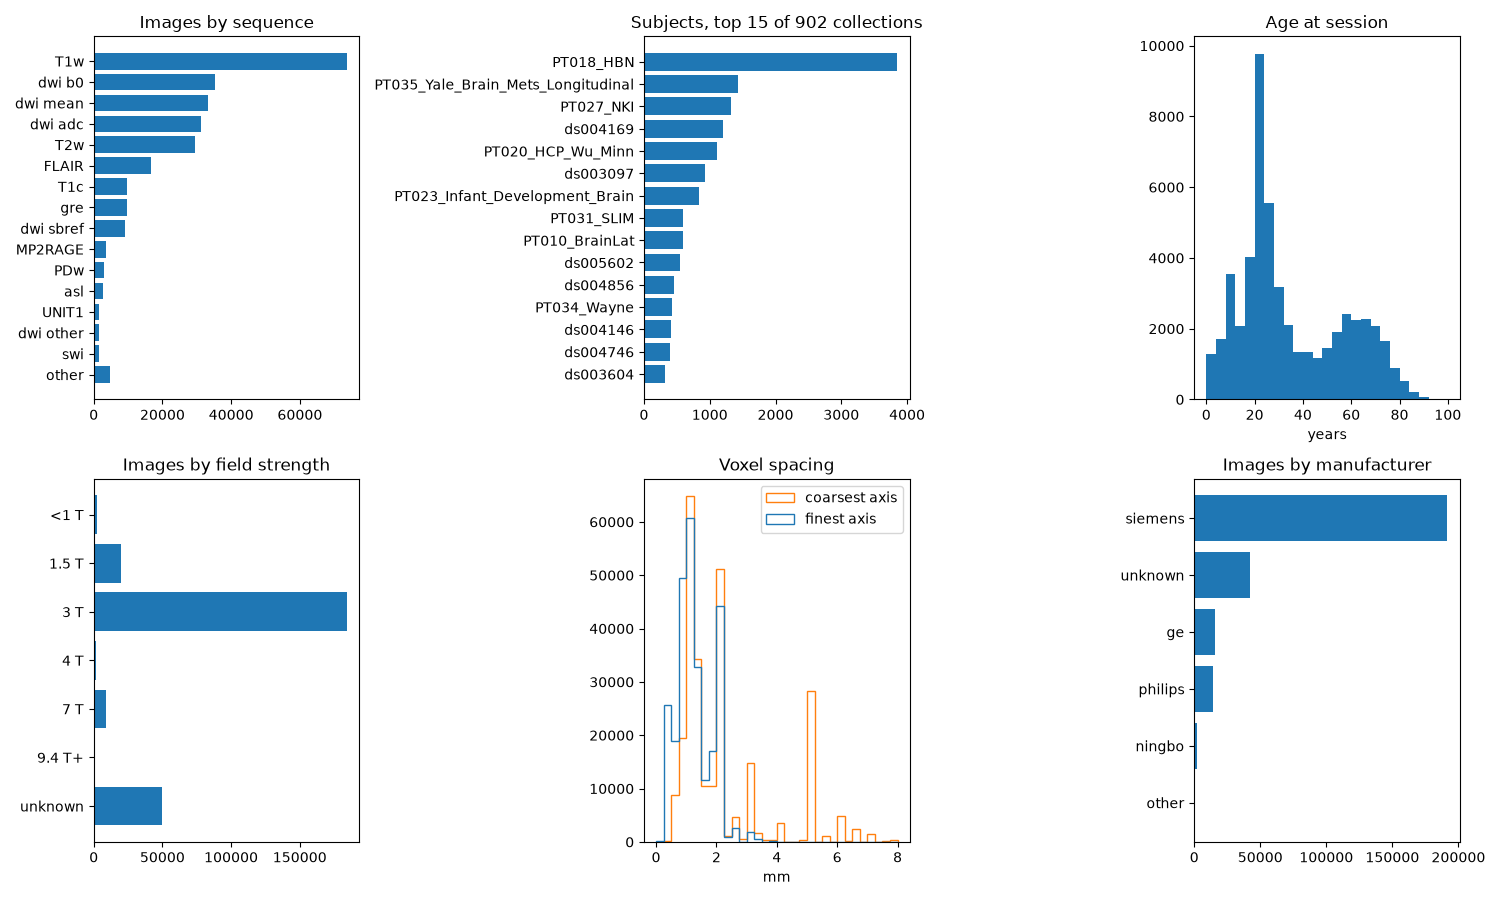
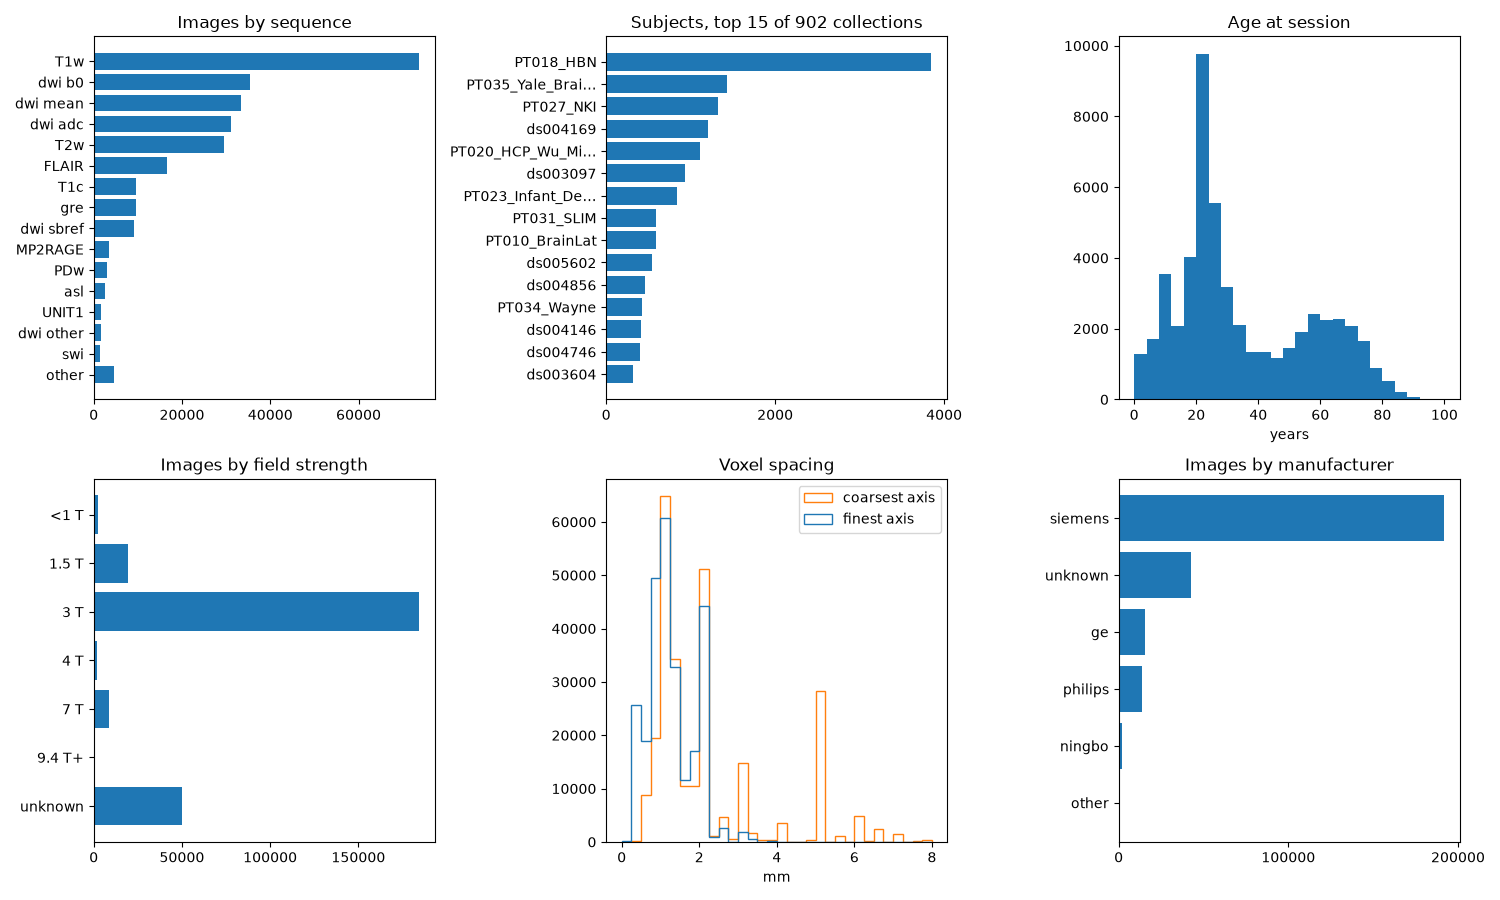
Two kinds of eval datasets, hosted and manual; shorter collection names in the FOMO300K plot

diff --git a/scripts/fomo300k/plot_summary.py b/scripts/fomo300k/plot_summary.py
@@ -16,6 +16,7 @@ TOP = 15
 def barh(ax: plt.Axes, counts: pd.Series, title: str) -> None:
     ax.barh(counts.index[::-1].astype(str), counts.values[::-1])
     ax.set_title(title)
+    ax.locator_params(axis="x", nbins=4)
 
 
 def main() -> None:
@@ -39,6 +40,7 @@ def main() -> None:
     barh(axes[0, 0], sequences, "Images by sequence")
 
     collections = subjects["collection"].str.removeprefix("PT030_OpenNeuro/").value_counts()
+    collections.index = [name if len(name) <= 16 else name[:15] + "…" for name in collections.index]
     barh(axes[0, 1], collections[:TOP], f"Subjects, top {TOP} of {len(collections)} collections")
 
     axes[0, 2].hist(sessions["age"].dropna(), bins=np.arange(0, 101, 4))

diff --git a/README_hf.md b/README_hf.md
@@ -43,11 +43,10 @@ configs:
 
 Public structural brain MRI datasets for building and evaluating sMRI foundation models: evaluation datasets with classification, regression and segmentation targets, and a large pretraining set. Code and benchmark: <https://github.com/MedARC-AI/brainmarks-smri>.
 
-We sort the datasets into three tiers by how they can be shared:
+The datasets come in two kinds:
 
-- **Hosted**: open datasets whose licenses allow redistribution. The full data is here.
-- **Build-it-yourself**: open datasets that may not be redistributed. Each user downloads them from the source and builds them with our scripts. Only the README and the tables without `samples.tsv` are here.
-- **Manual**: datasets that need an access application. You apply to the source, then build them as above.
+- **Hosted**: the full data is here.
+- **Manual**: you download the data from its source and build the dataset with our scripts. Only the README and the tables (without `samples.tsv`) are here. Their licenses don't allow redistribution.
 
 ## Evaluation datasets
 
@@ -67,7 +66,7 @@ Each evaluation dataset has harmonized metadata tables, fixed train/val/test spl
 | [UCSF-PDGM](https://www.cancerimagingarchive.net/collection/ucsf-pdgm/) | 495 | T1w, T1c, T2w, FLAIR, DWI, ADC, tumor mask | IDH, MGMT, 1p/19q, grade, survival, tumor segmentation | CC BY 4.0 | 15.9 GB |
 | [UPENN-GBM](https://www.cancerimagingarchive.net/collection/upenn-gbm/) | 630 | T1w, T1c, T2w, FLAIR, tumor mask | survival, IDH1, MGMT, tumor segmentation | CC BY 4.0 | 25.3 GB |
 
-### Build-it-yourself and manual
+### Manual
 
 | Dataset | Participants | Images | Targets | Access | Size |
 |---|---|---|---|---|---|
@@ -75,7 +74,7 @@ Each evaluation dataset has harmonized metadata tables, fixed train/val/test spl
 | [OASIS-2](https://sites.wustl.edu/oasisbrains/home/oasis-2/) | 150 | T1w, longitudinal | dementia, conversion | accept the OASIS terms | 20 GB |
 | [FOMO26 Task 4](https://fomo26.github.io/) | 40 | T2w, nerve and vessel mask | trigeminal nerve and vessel segmentation | download link from the organizers | 2.2 GB |
 | [FOMO26 Task 5](https://fomo26.github.io/) | 48 | T1w | polymicrogyria | download link from the organizers | 1.1 GB |
-| [ATLAS R2.1](https://fcon_1000.projects.nitrc.org/indi/retro/atlas.html) (manual) | 955 | T1w, lesion mask | stroke lesion segmentation | apply for a decryption key | 2.9 GB |
+| [ATLAS R2.1](https://fcon_1000.projects.nitrc.org/indi/retro/atlas.html) | 955 | T1w, lesion mask | stroke lesion segmentation | apply for a decryption key | 2.9 GB |
 
 Each dataset folder's `README.md` has its source, version, license, citation, and split details.
 
@@ -100,7 +99,7 @@ Each dataset folder's `README.md` has its source, version, license, citation, an
 - Derivatives: a brain mask on the image grid (`<image>_mask.nii.gz`) and a 4×4 nibabel-style affine matrix from the image to MNI152NLin6Asym (`<image>_mni.txt`). `derivatives.tsv` lists the images that have them.
 - `<dataset>-NNN.zip` shards hold whole participants: their images, JSON sidecars, brain masks and MNI affines, about 1 GB per shard. `<dataset>-meta.zip` holds the rest of the release: participant tables, phenotypes and docs.
 - Files in the shards keep their original paths under `source/` and `derivatives/`. Unzipping all shards in `<dataset>/` restores the full release, which you can check with `sha256sum -c tables/source.sha256 tables/derivatives.sha256`.
-- For the build-it-yourself and manual datasets, the checksums let you check your own build against ours.
+- For the manual datasets, the checksums let you check your own build against ours.
 - Splits are by participant. Official splits are kept where they exist; otherwise the split is 60/20/20, stratified, with a fixed seed. The smallest datasets have only a train split, for k-fold cross-validation.
 - `complete` marks participants with all core images and the primary targets.
 - `rank` orders participants within each split so that the lowest-ranked N form a balanced subset; subsets are nested as N grows.

diff --git a/scripts/oasis1/README.md b/scripts/oasis1/README.md
@@ -6,7 +6,7 @@ Open Access Series of Imaging Studies, cross-sectional: 416 adults aged 18-96 (W
 - **Source:** 12 raw image discs from <https://download.nrg.wustl.edu/data/> and the clinical spreadsheets from the homepage, downloaded with `curl`. No login is needed, but users must accept the OASIS data use terms (<https://sites.wustl.edu/oasisbrains/home/access/>). The images are distributed in Analyze 7.5 format (`.hdr`/`.img`), which has no affine. We store each as `.nii.gz` with the same voxels, and set the affine from the header's orientation code as FreeSurfer reads it (sagittal: ASL; transverse: LAS; the two `*.4dfp` images: PIR).
 - **Version:** unversioned; discs dated 2007-06, spreadsheets 2024. Pinned by sha256.
 - **DOI:** [10.1162/jocn.2007.19.9.1498](https://doi.org/10.1162/jocn.2007.19.9.1498) (paper)
-- **License:** OASIS data use terms: non-commercial research only, no redistribution without written permission. So our mirror has only this README and the tables without `samples.tsv`. Each user downloads the data and builds the rest.
+- **License:** OASIS data use terms: non-commercial research only, no redistribution without written permission. Manual dataset: you download and build it yourself, and our mirror has only this README and the tables.
 - **Citation:** Marcus, D. S., Wang, T. H., Parker, J., Csernansky, J. G., Morris, J. C., & Buckner, R. L. (2007). Open Access Series of Imaging Studies (OASIS): Cross-sectional MRI data in young, middle aged, nondemented, and demented older adults. *Journal of Cognitive Neuroscience*, 19(9), 1498-1507.
 - **Code:** [`scripts/oasis1/`](https://github.com/MedARC-AI/brainmarks-smri/tree/main/scripts/oasis1) downloads `source/` and builds `tables/`, `derivatives/` and `shards/`.
 

diff --git a/README.md b/README.md
@@ -13,10 +13,10 @@ Each baseline model is an optional extra: `brainiac`, `braindino`, `neurojepa`, 
 
 ## Data
 
-The benchmark uses public datasets in three tiers, by how they can be shared. We add standard metadata tables and fixed train/val/test splits to each one. Every image also has a brain mask and an affine to MNI space. The dataset card, [`README_hf.md`](README_hf.md), lists the datasets and their licenses.
+The benchmark uses public datasets. We add standard metadata tables and fixed train/val/test splits to each one. Every image also has a brain mask and an affine to MNI space. The dataset card, [`README_hf.md`](README_hf.md), lists the datasets and their licenses.
 
 - **Hosted**: nine datasets are hosted at [medarc/brainmarks-smri](https://huggingface.co/datasets/medarc/brainmarks-smri). The repo is gated, so accept its terms and log in with `hf auth login` first. Then set `DATA_ROOT=hf://datasets/medarc/brainmarks-smri`, and each dataset is downloaded to a local cache when a run first needs it. You can also download the repo yourself and set `DATA_ROOT` to its folder.
-- **Build-it-yourself** (OASIS-1, OASIS-2, FOMO26 Tasks 4 and 5) and **manual** (ATLAS, which needs an access application): these may not be redistributed, so you build them in your local `DATA_ROOT` (default `datasets/`). Each one's README explains how to get access.
+- **Manual**: you build ATLAS, OASIS-1, OASIS-2 and FOMO26 Tasks 4 and 5 yourself in your local `DATA_ROOT` (default `datasets/`), because their licenses don't allow redistribution. Each one's README explains how to get access.
 
 ```sh
 bash scripts/oasis1/download.sh

diff --git a/scripts/oasis2/README.md b/scripts/oasis2/README.md
@@ -6,7 +6,7 @@ Open Access Series of Imaging Studies, longitudinal: 150 adults aged 60-96 (Wash
 - **Source:** two raw image archives from <https://download.nrg.wustl.edu/data/> and the demographics spreadsheet from the homepage, downloaded with `curl`. No login is needed, but users must accept the OASIS data use terms (<https://sites.wustl.edu/oasisbrains/home/access/>). The images are distributed as NIfTI pairs (`.nifti.hdr`/`.img`); we store each as one `.nii.gz` with the same header and voxels.
 - **Version:** unversioned; archives dated 2009-03, spreadsheet 2024. Pinned by sha256.
 - **DOI:** [10.1162/jocn.2009.21407](https://doi.org/10.1162/jocn.2009.21407) (paper)
-- **License:** OASIS data use terms: non-commercial research only, no redistribution without written permission. So our mirror has only this README and the tables without `samples.tsv`. Each user downloads the data and builds the rest.
+- **License:** OASIS data use terms: non-commercial research only, no redistribution without written permission. Manual dataset: you download and build it yourself, and our mirror has only this README and the tables.
 - **Citation:** Marcus, D. S., Fotenos, A. F., Csernansky, J. G., Morris, J. C., & Buckner, R. L. (2010). Open Access Series of Imaging Studies: Longitudinal MRI data in nondemented and demented older adults. *Journal of Cognitive Neuroscience*, 22(12), 2677-2684.
 - **Code:** [`scripts/oasis2/`](https://github.com/MedARC-AI/brainmarks-smri/tree/main/scripts/oasis2) downloads `source/` and builds `tables/`, `derivatives/` and `shards/`.
 

diff --git a/scripts/fomo26_task5/README.md b/scripts/fomo26_task5/README.md
@@ -6,7 +6,7 @@ A few-shot classification task from the FOMO26 challenge: T1w MRIs of 24 childre
 - **Source:** the organizers' ERDA share, whose link was given to challenge participants (ask the organizers, fomo26@di.ku.dk). We download it with `curl`. The organizers distribute the PPMR dataset ([uOttawa repository](https://ruor.uottawa.ca/items/298d789f-e390-43c7-a657-a823701b18b6): coronal JPEG slices) and their script `Task_5_extract.py`, which stacks the slices into NIfTI volumes and picks one control per control folder. We run the script, keep its output and drop the zip.
 - **Version:** unversioned; files dated 2026-05-01, pinned by sha256.
 - **DOI:** none for the challenge data. PPMR: [10.20381/ruor-28525](https://doi.org/10.20381/ruor-28525).
-- **License:** PPMR is CC BY-NC-ND 4.0. Not redistributable, so our mirror has only this README and the tables without `samples.tsv`. Each user downloads the data and builds the rest.
+- **License:** PPMR is CC BY-NC-ND 4.0. Manual dataset: you download and build it yourself, and our mirror has only this README and the tables.
 - **Citation:**
   - Munk, A., Cerri, S., Nersesjan, V., et al. (2026). Towards brain MRI foundation models for the clinic: Findings from the FOMO25 challenge. arXiv:2604.11679.
   - Zhang, L., Abdeen, N., & Lang, J. (2022). A novel center-based deep contrastive metric learning method for the detection of polymicrogyria in pediatric brain MRI. arXiv:2211.12565.

diff --git a/scripts/fomo26_task4/README.md b/scripts/fomo26_task4/README.md
@@ -6,7 +6,7 @@ A few-shot segmentation task from the FOMO26 challenge: T2w MRIs of 40 patients 
 - **Source:** the organizers' ERDA share, whose link was given to challenge participants (ask the organizers, fomo26@di.ku.dk). We download `Task_4.zip` from it with `curl`. The images are from OpenNeuro [ds005713](https://openneuro.org/datasets/ds005713) (CC0), reoriented to RAS by the organizers. The masks are the organizers'.
 - **Version:** unversioned; `Task_4.zip` dated 2026-04-12, pinned by sha256.
 - **DOI:** none for the challenge data. Images: [10.18112/openneuro.ds005713](https://doi.org/10.18112/openneuro.ds005713.v2.0.3).
-- **License:** the images are CC0; the masks have no stated license. Not redistributable, so our mirror has only this README and the tables without `samples.tsv`. Each user downloads the data and builds the rest.
+- **License:** the images are CC0; the masks have no stated license. Manual dataset: you download and build it yourself, and our mirror has only this README and the tables.
 - **Citation:**
   - Munk, A., Cerri, S., Nersesjan, V., et al. (2026). Towards brain MRI foundation models for the clinic: Findings from the FOMO25 challenge. arXiv:2604.11679.
   - Filimonova, E., Pashkov, A., Tiutiunnik, A., et al. (2025). A large-scale dataset of pre- and postsurgical MRI data from patients with chronic trigeminal neuralgia. *Scientific Data*. <https://doi.org/10.1038/s41597-025-06311-y>

diff --git a/scripts/atlas/README.md b/scripts/atlas/README.md
@@ -6,7 +6,7 @@ Anatomical Tracings of Lesions After Stroke: T1w MRIs of chronic stroke patients
 - **Source:** INDI S3 (`s3://fcp-indi/data/Projects/INDI/ATLAS/R2.1/`), downloaded with `curl`. The archive is encrypted with `openssl`. To get the key, accept the terms of use and fill in the Google form on the homepage. Each user must apply for their own key.
 - **Version:** R2.1, minimally processed (`atlas21_training_raw.tar.gz`, 2026-04-22). The same 955 scans as R2.0, now with the masks of the 300 test scans.
 - **DOI:** [10.1038/s41597-022-01401-7](https://doi.org/10.1038/s41597-022-01401-7) (R2.0 data descriptor)
-- **License:** ATLAS terms of use, accepted with the key request. Not redistributable, so our mirror has only this README and the tables without `samples.tsv`. Each user downloads the data and builds the rest.
+- **License:** ATLAS terms of use, accepted with the key request. Manual dataset: you download and build it yourself, and our mirror has only this README and the tables.
 - **Citation:** Liew, S.-L., Lo, B. P., Donnelly, M. R., et al. (2022). A large, curated, open-source stroke neuroimaging dataset to improve lesion segmentation algorithms. *Scientific Data*, 9, 320.
 - **Code:** [`scripts/atlas/`](https://github.com/MedARC-AI/brainmarks-smri/tree/main/scripts/atlas) downloads `source/` and builds `tables/`, `derivatives/` and `shards/`.
 
